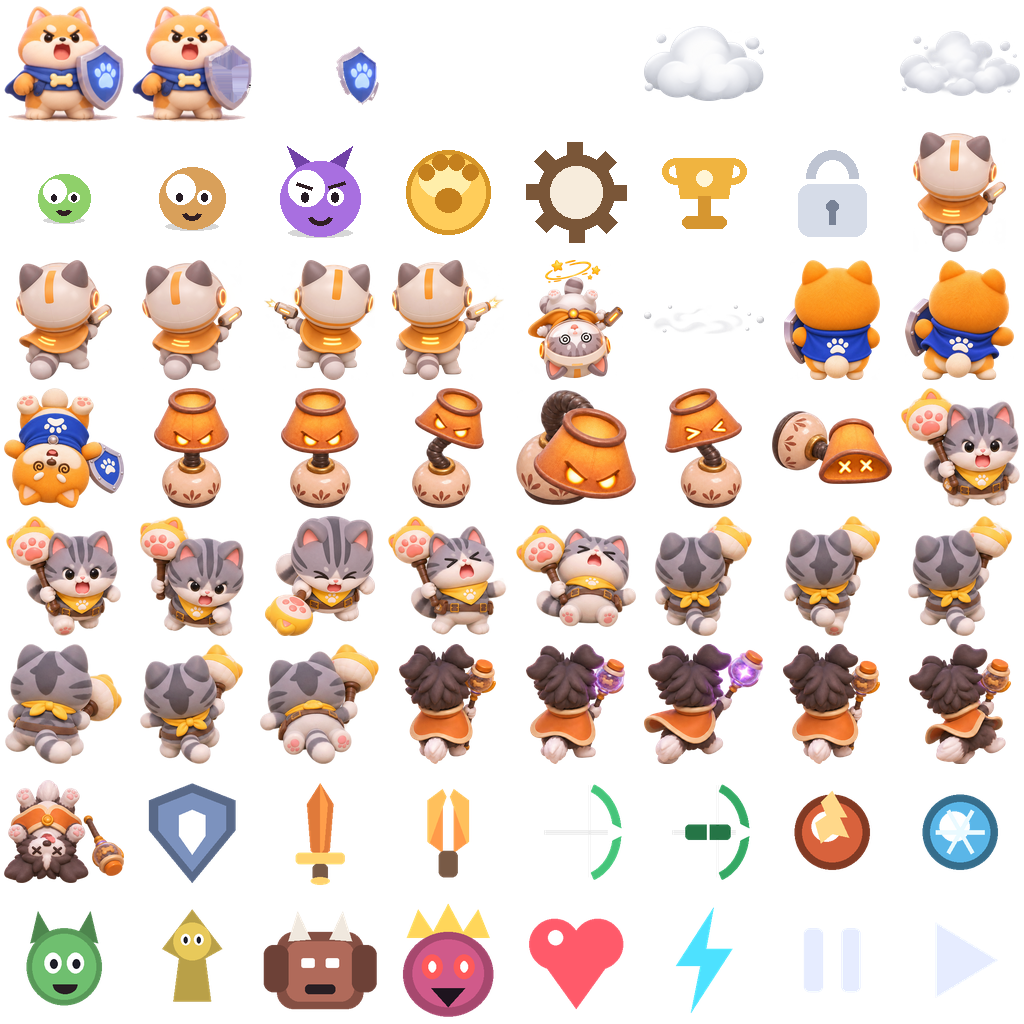
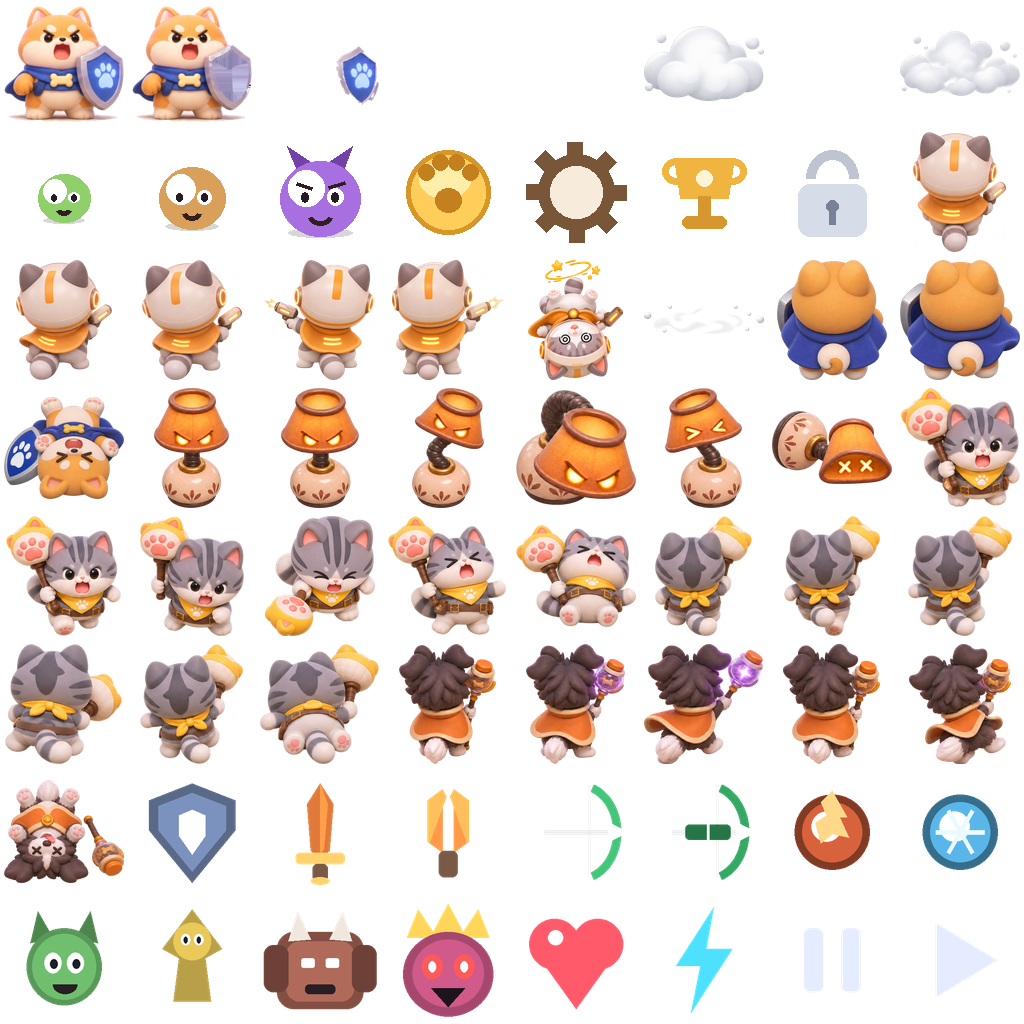
feat: replace chai bupo rear animation set

Changed region(s): [[0.75, 0.25, 1.0, 0.375], [0.0, 0.375, 0.125, 0.5]]

diff --git a/tower-defense/tools/chai-bupo-60-preview.html b/tower-defense/tools/chai-bupo-60-preview.html
@@ -1,0 +1,146 @@
+<!doctype html>
+<html lang="zh-CN">
+<meta charset="utf-8">
+<meta name="viewport" content="width=device-width,initial-scale=1">
+<title>柴不破 · 60° 三视图几何预演</title>
+<style>
+  * { box-sizing: border-box; }
+  body { margin: 0; background: #171824; color: #f7f0e5; font: 14px system-ui, sans-serif; }
+  main { width: min(100vw, 1080px); margin: auto; padding: 18px; }
+  canvas { display: block; width: 100%; aspect-ratio: 1.25; border: 1px solid #4e4165; border-radius: 14px; background: #292735; }
+  p { margin: 12px 0 0; line-height: 1.55; color: #cfc6dd; }
+</style>
+<main>
+  <strong>柴不破 · 固定镜头：正南 → 正北 · 俯角 60°</strong>
+  <canvas id="scene" width="1000" height="800"></canvas>
+  <p>仅使用球体、椭圆与多边形预演脚底、斗篷、盾牌和头身关系。正式三视图将沿用这一相机合同，而非正交正面设定图。</p>
+</main>
+<script>
+(() => {
+  const canvas = document.querySelector('#scene');
+  const ctx = canvas.getContext('2d');
+  const elevation = 60 * Math.PI / 180;
+
+  function norm(v) {
+    const n = Math.hypot(v.x, v.y, v.z) || 1;
+    return { x: v.x / n, y: v.y / n, z: v.z / n };
+  }
+
+  function cross(a, b) {
+    return { x: a.y * b.z - a.z * b.y, y: a.z * b.x - a.x * b.z, z: a.x * b.y - a.y * b.x };
+  }
+
+  function dot(a, b) { return a.x * b.x + a.y * b.y + a.z * b.z; }
+
+  function camera() {
+    const distance = 11;
+    const position = { x: 0, y: -distance * Math.cos(elevation), z: distance * Math.sin(elevation) };
+    const forward = norm({ x: 0, y: -position.y, z: -position.z });
+    const right = norm(cross(forward, { x: 0, y: 0, z: 1 }));
+    return { position, forward, right, up: cross(right, forward), focal: 980 };
+  }
+
+  function project(point, cam) {
+    const rel = { x: point.x - cam.position.x, y: point.y - cam.position.y, z: point.z - cam.position.z };
+    const depth = dot(rel, cam.forward);
+    const scale = cam.focal / Math.max(1, depth);
+    return { x: canvas.width * .5 + dot(rel, cam.right) * scale, y: canvas.height * .55 - dot(rel, cam.up) * scale, scale };
+  }
+
+  function path(points, fill, stroke, width = 1) {
+    ctx.beginPath();
+    points.forEach((p, i) => i ? ctx.lineTo(p.x, p.y) : ctx.moveTo(p.x, p.y));
+    ctx.closePath();
+    if (fill) { ctx.fillStyle = fill; ctx.fill(); }
+    if (stroke) { ctx.strokeStyle = stroke; ctx.lineWidth = width; ctx.stroke(); }
+  }
+
+  function ground(cam) {
+    for (let n = -4; n <= 4; n++) {
+      const a = project({ x: n, y: -4, z: 0 }, cam);
+      const b = project({ x: n, y: 4, z: 0 }, cam);
+      const c = project({ x: -4, y: n, z: 0 }, cam);
+      const d = project({ x: 4, y: n, z: 0 }, cam);
+      ctx.strokeStyle = n === 0 ? '#8e78a8' : '#514b60';
+      ctx.lineWidth = n === 0 ? 1.4 : .8;
+      ctx.beginPath(); ctx.moveTo(a.x, a.y); ctx.lineTo(b.x, b.y); ctx.stroke();
+      ctx.beginPath(); ctx.moveTo(c.x, c.y); ctx.lineTo(d.x, d.y); ctx.stroke();
+    }
+  }
+
+  function oval(x, y, rx, ry, fill, stroke) {
+    ctx.beginPath(); ctx.ellipse(x, y, rx, ry, 0, 0, Math.PI * 2);
+    if (fill) { ctx.fillStyle = fill; ctx.fill(); }
+    if (stroke) { ctx.strokeStyle = stroke; ctx.lineWidth = 1.5; ctx.stroke(); }
+  }
+
+  // ═══════════════════════════════════════════════════════ 柴不破几何块
+  function shield(center, s, pose) {
+    const shift = pose === 'side' ? s * .18 : pose === 'back' ? s * .39 : s * .45;
+    const width = pose === 'side' ? s * .31 : s * .44;
+    const top = center.y - s * .10;
+    const points = [
+      { x: center.x + shift - width, y: top - s * .34 },
+      { x: center.x + shift + width, y: top - s * .20 },
+      { x: center.x + shift + width * .85, y: top + s * .42 },
+      { x: center.x + shift, y: top + s * .68 },
+      { x: center.x + shift - width * .85, y: top + s * .42 },
+    ];
+    path(points, '#285ac0', '#d9d8e8', 6);
+    path(points, null, '#8e90ac', 2);
+  }
+
+  function dog(x, y, pose, label, cam) {
+    const foot = project({ x, y, z: .03 }, cam);
+    const torso = project({ x, y, z: .63 }, cam);
+    const head = project({ x, y, z: 1.34 }, cam);
+    const s = foot.scale * .73;
+    oval(foot.x, foot.y + s * .18, s * .62, s * .22, 'rgba(0,0,0,.26)');
+
+    // 背面时盾在身体前方，必须先画，才能被斗篷和身体自然遮住。
+    if (pose === 'back') shield(torso, s, pose);
+
+    // 斗篷先画，保证身体、头和盾牌的遮挡顺序可见。
+    oval(torso.x, torso.y + s * .12, s * .61, s * .45, '#174ca5', '#0f3478');
+    if (pose === 'back') {
+      oval(torso.x, torso.y + s * .13, s * .22, s * .16, '#fff0de');
+      oval(torso.x, torso.y + s * .13, s * .11, s * .08, '#174ca5');
+    }
+
+    // 圆润柴犬身体：防御位比近战/远程更宽，脚底占地仍收在阴影内。
+    oval(torso.x, torso.y, s * .62, s * .48, '#ee962d', '#c96e20');
+    oval(head.x, head.y, s * .68, s * .56, '#f5a23c', '#ce7620');
+    oval(head.x - s * .39, head.y - s * .42, s * .19, s * .23, '#ed962f', '#c96e20');
+    oval(head.x + s * .39, head.y - s * .42, s * .19, s * .23, '#ed962f', '#c96e20');
+    if (pose === 'front') {
+      oval(head.x, head.y + s * .16, s * .39, s * .25, '#ffe6c8');
+      oval(head.x - s * .22, head.y + s * .03, s * .07, s * .09, '#3d281d');
+      oval(head.x + s * .22, head.y + s * .03, s * .07, s * .09, '#3d281d');
+      oval(head.x, head.y + s * .16, s * .10, s * .07, '#3d281d');
+    } else if (pose === 'side') {
+      oval(head.x - s * .30, head.y + s * .12, s * .20, s * .15, '#ffe6c8');
+      oval(head.x - s * .44, head.y + s * .10, s * .08, s * .08, '#3d281d');
+    } else {
+      oval(head.x, head.y + s * .15, s * .55, s * .28, '#f5a23c');
+    }
+    if (pose !== 'back') shield(torso, s, pose);
+    ctx.fillStyle = '#f6e7d7'; ctx.font = '700 20px system-ui'; ctx.textAlign = 'center';
+    ctx.fillText(label, foot.x, foot.y + s * .86);
+  }
+
+  function draw() {
+    const cam = camera();
+    const bg = ctx.createLinearGradient(0, 0, 0, canvas.height);
+    bg.addColorStop(0, '#302b42'); bg.addColorStop(1, '#171824');
+    ctx.fillStyle = bg; ctx.fillRect(0, 0, canvas.width, canvas.height);
+    ground(cam);
+    dog(-2.25, 1.30, 'front', '正面 · 面向正南', cam);
+    dog(0, .15, 'side', '侧面 · 面向西', cam);
+    dog(2.25, 1.30, 'back', '背面 · 面向正北', cam);
+    ctx.fillStyle = '#f6cb7d'; ctx.font = '700 18px system-ui'; ctx.textAlign = 'left';
+    ctx.fillText('柴不破：防御型宽脚底 + 低重心头身 + 右手盾牌', 28, 38);
+  }
+
+  draw();
+})();
+</script>

diff --git a/tower-defense/package/gameplay/anim/defs.js b/tower-defense/package/gameplay/anim/defs.js
@@ -11,7 +11,7 @@
   var warSpec = A.CharacterAnimations.war;
   var mageSpec = A.CharacterAnimations.mage;
 
-  // 护盾柴犬：战场始终使用背视完整姿势；卡牌仍可复用正面分件图。
+  // 柴不破：战场始终使用背视完整姿势；卡牌仍可复用正面分件图。
   var shiba = {
     parts: [
       { icon: tankSpec.frames.idle, pivot: [0.50, 0.88] },
@@ -26,15 +26,15 @@
           { t: 2.4, mods: [{ icon: tankSpec.frames.idle, dy: 0, sy: 1.00 }] },
         ],
       },
-      // 受击：改用情绪版同风格的完整姿势；第二分件隐藏，避免双盾重影。
+      // 受击：完整背面姿势配合轻微位移；不缩放，避免出现“压扁”观感。
       hurt: {
         dur: tankSpec.states.hurt.duration, ease: 'outQuad',
         keys: [
           { t: 0.00, mods: [{ icon: tankSpec.frames.idle, alpha: 1 }] },
           // 向镜头方向轻退并失衡：保持原体积，不做“受击被压扁”的夸张形变。
-          { t: 0.065, mods: [{ icon: tankSpec.frames.hurt, alpha: 1, dy: 1.8, sx: 1.01, sy: 1.00, rot: -1.5 }] },
-          { t: 0.17, mods: [{ icon: tankSpec.frames.hurt, alpha: 1, dy: 3.6, sx: 1.02, sy: 0.99, rot: -3.0 }] },
-          { t: 0.27, mods: [{ icon: tankSpec.frames.idle, alpha: 1, dy: 1.2, sx: 1.01, sy: 1.00, rot: -1.0 }] },
+          { t: 0.065, mods: [{ icon: tankSpec.frames.hurt, alpha: 1, dy: 1.8, rot: -1.5 }] },
+          { t: 0.17, mods: [{ icon: tankSpec.frames.hurt, alpha: 1, dy: 3.6, rot: -3.0 }] },
+          { t: 0.27, mods: [{ icon: tankSpec.frames.idle, alpha: 1, dy: 1.2, rot: -1.0 }] },
           { t: tankSpec.states.hurt.duration, mods: [{ icon: tankSpec.frames.idle, alpha: 1, dy: 0, sx: 1, sy: 1, rot: 0 }] },
         ],
       },

diff --git a/tower-defense/package/index.html b/tower-defense/package/index.html
@@ -222,8 +222,8 @@ function toggleOrientation() {
 <!-- 在下方按依赖顺序追加游戏 js 文件；kwaiStandard/main.js 保持最后 -->
 <script src="gameplay/data/font-atlas.js?v=3"></script>
 <script src="gameplay/data/sprites.js?v=3"></script>
-<script src="gameplay/data/rigs.js?v=4"></script>
-<script src="gameplay/data/character-animations.js?v=4"></script>
+<script src="gameplay/data/rigs.js?v=5"></script>
+<script src="gameplay/data/character-animations.js?v=5"></script>
 <script src="gameplay/data/avatars.js?v=3"></script>
 <script src="gameplay/config.js?v=4"></script>
 <script src="gameplay/layout.js?v=3"></script>

diff --git a/tower-defense/tools/gen-shiba-atlas.py b/tower-defense/tools/gen-shiba-atlas.py
@@ -248,7 +248,7 @@ def spec_sheet_frame(spec, source_dir, name):
 
 
 def tank_frame(name):
-    """盾狗受击、晕倒与三帧光盾。"""
+    """柴不破的背面待机、受击与仰面倒地帧。"""
     frame = TANK_SPEC["frames"][name]
     if "columns" in frame:
         return spec_sheet_frame(TANK_SPEC, TANK_DOG_DIR, name)
@@ -558,7 +558,7 @@ def build():
     cell(ARCHER_SPEC["frames"]["defeat"]["icon"], archer_back_defeat())
     cell("fx-smoke-3", defeat_smoke(2))
 
-    # 盾狗：背面待机、受击与晕倒均为完整姿势帧。
+    # 柴不破：背面待机、受击与晕倒均为完整姿势帧。
     cell(TANK_SPEC["frames"]["idle"]["icon"], tank_frame("idle"))
     cell(TANK_SPEC["frames"]["hurt"]["icon"], tank_frame("hurt"))
     cell(TANK_SPEC["frames"]["defeat"]["icon"], tank_frame("defeat"))

diff --git a/tower-defense/PROJECT.md b/tower-defense/PROJECT.md
@@ -61,14 +61,15 @@ python3 tools/gen-profile-art.py   # 9 只猫狗头像图集
 - 字形图集从 `gameplay/**.js` 的字符串字面量自动收集用字：**新增中文文案后必须重新执行 `gen-assets.py`**，否则会缺字
 - 图集按注册顺序自动排格，并对重复帧名和容量耗尽直接报错；图集尺寸自动选宽，保证高度 ≤ 2048（低端机纹理上限）
 
-**战斗图集（`res/Image/game.png`，1024×1152，当前 66 格）**
+**战斗图集（`res/Image/game.png`，1024×1024，当前 64 格）**
 - 单元格 128px，含 4px padding（旋转 + 线性过滤时防渗色），有效区 120px
 - 帧按生成器注册顺序自动排格；运行时代码只通过帧名查询，禁止依赖图集行列位置
-- 当前包含卡牌用柴犬分件、通用特效、战场敌人与 UI 图标、射手猫背面待机 / 瞄准 / 左右开火 / 后坐 / 仰面晕倒帧、盾狗背面待机 / 受击 / 仰面晕倒帧、近战猫正背两套待机 / 走步 / 挥锤 / 受击 / 倒地帧、哈利边牧背面待机 / 蓄能 / 释放 / 收势 / 受击 / 仰面晕倒帧，以及台灯小怪的待机 / 跳步 / 灯罩蓄力与撞击 / 受击 / 侧翻倒地帧；飞行光弹与范围光圈由运行时绘制，不能烘焙进角色帧
+- 当前包含卡牌用柴犬分件、通用特效、战场敌人与 UI 图标、射手猫背面待机 / 瞄准 / 左右开火 / 后坐 / 仰面晕倒帧、柴不破背面待机 / 受击 / 仰面晕倒帧、近战猫正背两套待机 / 走步 / 挥锤 / 受击 / 倒地帧、哈利边牧背面待机 / 蓄能 / 释放 / 收势 / 受击 / 仰面晕倒帧，以及台灯小怪的待机 / 跳步 / 灯罩蓄力与撞击 / 受击 / 侧翻倒地帧；飞行光弹与范围光圈由运行时绘制，不能烘焙进角色帧
 - 分件以**整张正视图为共同参照**落格，不能各自居中，否则拼合错位
-- 柴犬旧正视源图仅供卡牌分件，放 `tools/src/shiba-front.png`；角色参考按角色目录收纳在 `tools/src/characters/角色/<角色名>/`，跨角色风格参考放在 `tools/src/characters/情绪版/`。射手猫动作源位于 `角色/射手猫/`；盾狗战场源位于 `角色/盾狗/`，包含背面待机、背面受击 / 晕倒帧。所有角色共用的死亡烟雾位于 `tools/src/effects/defeat-smoke/vanish-smoke-0*.png`；旧图标源放 `tools/src/sprites-legacy.png`
+- 柴犬旧正视源图仅供卡牌分件，放 `tools/src/shiba-front.png`；角色参考按角色目录收纳在 `tools/src/characters/角色/<角色名>/`，跨角色风格参考放在 `tools/src/characters/情绪版/`。柴不破的确认三视图为 `角色/柴不破/柴不破三视图-60度-已确认-v1.png`，战场动作源为同目录 `柴不破背面动作-v1.png`（3×1）；射手猫动作源位于 `角色/射手猫/`。所有角色共用的死亡烟雾位于 `tools/src/effects/defeat-smoke/vanish-smoke-0*.png`；旧图标源放 `tools/src/sprites-legacy.png`
 - 角色 / 怪物 AI 生图的强制参考链：每次都输入 `tools/src/characters/情绪版/` 的风格图；三视图任务额外输入角色目录的 `*三视图参考*.png`，动作任务同时输入两者。缺任一必要参考时暂停正式生成，不得仅靠文字或旧动作表补图。
 - 角色 / 怪物 / 特效的新制或重制统一使用“相机位于战场正南、朝正北、俯角 70°”的固定镜头。正式生图和接入前，必须在 `tools/camera-perspective.html` 的 70° 场域预演高度、遮挡、轨迹和贴地透视；已验收素材不自动返工。
+- 例外：柴不破以用户确认的 60°正南→正北三视图为结构母版；其背面动作必须沿用该镜头、比例和底部锚点，不得与通用 70°镜头混用。
 - **改分件/特效后必须重新执行 `gen-shiba-atlas.py`**，并检查 `sprites.js` 里旧图标仍完整
 - 界面图标（关闭、返回、箭头、勾选、音乐、音效、分享、链接）只在 `sprites.png`；`Assets.sprite()` 先查战斗图集，未命中再回退界面图集
 - 字形图集只有 18 / 28 / 48 三档，界面文字不要写 20 / 24 / 26 等其他字号，否则该行会整段不绘制
@@ -96,7 +97,7 @@ node ../ks-yoola-devkit/scripts/validate-package.mjs --dir .
 - 攻击伤害**不在起手结算**：`updateUnits` 只切 `anim='atk'` + `pendingHit`，到达 Rig 的 `states.atk.hit` 才 `resolveAttack`；不得再为单位硬编码第二套出手时间
 - 射手猫背面动作固定为蓄力 0.10 秒、独立开火帧 0.12–0.18 秒、后坐并在 0.46 秒回到待机；目标左右两侧各用一帧，始终由角色右手持枪；光弹从相应 Rig 的 `muzzle` 锚点生成，命中时才造成伤害
 - 射手猫被击败时先向后仰 0.12 秒，切换到用户确认的仰面晕倒帧；姿势保持不透明，在 0.46 秒时生成三帧纯白烟雾并直接移出单位列表。烟雾的扩散由三张素材帧表达，不可再以运行时缩放伪造。死亡持续时间读取 Rig 数据，不能为此单位另写硬编码
-- 盾狗不进入攻击流程；嘲讽仍由战斗逻辑处理，但不播放光盾特效。战场待机与受击均为背视；受击在 0.34 秒内轻微后移、失衡后回正，保持角色体积而不压扁；死亡切换为仰面晕倒（头朝战场南侧），姿势不渐隐，随后复用通用白烟雾退场。
+- 柴不破不进入攻击流程；嘲讽仍由战斗逻辑处理，但不播放光盾特效。战场固定使用 60°背面完整姿势；待机时大盾从观察者左侧露出，受击在 0.34 秒内轻微后移、失衡后回正，保持角色体积而不压扁；死亡切换为仰面晕倒（头朝战场南侧），姿势不渐隐，随后复用通用白烟雾退场。
 - 台灯小怪使用 `small` 敌人档（逻辑直径 22）：移动循环为起跳 / 落地，近战攻击在 0.22 秒由灯罩前撞命中；命中使用暖色冲击而非刀光。动作源为 `tools/src/characters/角色/台灯小怪/lamp-minion-actions-v2.png`，3×2 表统一取帧；正 / 侧 / 后三视图参考为同目录 `台灯小怪三视图参考-v2.png`；两者均以情绪版风格图与该三视图为输入。死亡侧翻姿势保持不透明，随后复用通用白烟雾。
 - 近战猫复用移动近战位的内部 id `war` 与既有数值（逻辑直径 30）：正面 / 背面均有待机、走步、蓄力、挥锤、受击与倒地帧。移动和目标在角色上方时使用背面 Rig，目标在角色下方时使用正面 Rig；任一瞬态动作结束后固定回背面待机。动作源为 `tools/src/characters/角色/近战猫/近战猫动作-v2.png`，4×3 表统一取帧，三视图为 `近战猫三视图参考-v1.png`；正面命中帧使用闭眼表情。攻击命中维持 0.20 秒，挥锤刀光仍由运行时绘制，死亡后复用通用白烟雾。
 - 哈利边牧复用法师位内部 id `mage` 与既有数值（逻辑直径 28）：战场固定背面，动作源为 `tools/src/characters/角色/法师狗/mage-dog-back-actions-v1.png`（3×2），包含待机、蓄能、释放、收势、受击与仰面晕倒。攻击在 0.28 秒的释放帧命中；紫金狗饼干飞弹与贴地扩散源为 `tools/src/effects/mage-biscuit/mage-biscuit-vfx-v5.png`，生成阶段输出独立的 `res/Image/mage-biscuit-vfx.png`（512×256，双 256 格）。落地格为重新生成的透明砸地饼干与碎屑，缩小至光效的辅助尺寸；主体为 70° 正北透视下快速扩散的高亮紫色椭圆光核与 18 枚加法光粒子。落地饼干不渐隐，完整显示 0.5 秒后与命中特效一起直接移除。命中不叠加通用范围圆环，死亡仍接通用白烟雾。

diff --git a/STATUS.md b/STATUS.md
@@ -1,6 +1,6 @@
 # 当前状态
 
-更新：2026-11-06 19:49（Asia/Shanghai） · 哈利边牧背面行动动画、70° 正北美术镜头与狗饼干命中特效已合入 `main`（`b87c4d9`）；角色体型阶梯待独立数值回归后落地。
+更新：2026-11-06 20:45（Asia/Shanghai） · 哈利边牧背面行动动画、70° 正北美术镜头与狗饼干命中特效及柴不破确认 60°三视图与全套背面动作均已合入 `main`；角色体型阶梯待独立数值回归后落地。
 
 ## 现有工程
 
@@ -11,13 +11,14 @@
 - 合并前验证（2026-11-03，H5 预览，414×896，DPR 2）：`node tools/layout-check.mjs`、`node tools/assets-check.mjs`、`node tools/sim.mjs --seconds 400`、`node tools/shot.mjs --port 8102 --dpr 2`（12/12）、`validate-package.mjs --dir .` 均通过。预检保留 6 条已知警告（模板修改 2、上传占位 2、首页图目录 2）；浏览器自动播放音频警告及 favicon 404 未阻断交互。
 - 预览服务必须指向本仓库 `tower-defense/package/`；资源404会被门禁阻断，可用 `node tools/assets-check.mjs` 回归。
 - 本次合并检查：`node tower-defense/tools/sim.mjs --seconds 400`、`assets-check.mjs`、`layout-check.mjs`、`menu-interaction-check.mjs`、浏览器个人中心/暂停面板回归和盾狗受击定格帧均通过；包体静态预检无错误、14 条警告（模板文件 4、配置/广告占位 2、资源目录 8）。本次未进行快手真机验证。
-- 当前角色动画：镭射喵（射手猫）背面待机 / 瞄准 / 左右开火 / 后坐 / 仰面晕倒、柴不破（盾狗）背面待机 / 受击 / 仰面晕倒、锤锤喵（近战猫）正背走步 / 挥锤 / 受击 / 倒地、哈利边牧背面待机 / 蓄能 / 释放 / 收势 / 受击 / 仰面晕倒，以及台灯小怪的跳步、灯罩撞击、受击与侧翻倒地均已接入；锤锤喵正面命中帧闭眼，停止移动或动作结束后固定背面待机。角色源素材按 `tools/src/characters/角色/<角色名>/` 收纳，跨角色风格参考放在 `tools/src/characters/情绪版/`，通用特效放在 `tools/src/effects/`。哈利边牧固定背面，攻击在 0.28 秒释放帧结算；命中时生成缩小的砸地狗饼干与碎屑，主体为 70° 正北透视下的高亮紫色光核与粒子，饼干保持不透明 0.5 秒后直接移除；命中不叠通用圆环，死亡后接通用白烟雾。快手真机仍未验证。原始角色与情绪参考图已迁出 `package/res/`，当前主包目录约 4.7 MiB。
+- 当前角色动画：镭射喵（射手猫）背面待机 / 瞄准 / 左右开火 / 后坐 / 仰面晕倒、柴不破 60°背面待机 / 受击 / 仰面晕倒、锤锤喵（近战猫）正背走步 / 挥锤 / 受击 / 倒地、哈利边牧背面待机 / 蓄能 / 释放 / 收势 / 受击 / 仰面晕倒，以及台灯小怪的跳步、灯罩撞击、受击与侧翻倒地均已接入；锤锤喵正面命中帧闭眼，停止移动或动作结束后固定背面待机。角色源素材按 `tools/src/characters/角色/<角色名>/` 收纳，跨角色风格参考放在 `tools/src/characters/情绪版/`，通用特效放在 `tools/src/effects/`。哈利边牧固定背面，攻击在 0.28 秒释放帧结算；命中时生成缩小的砸地狗饼干与碎屑，主体为 70° 正北透视下的高亮紫色光核与粒子，饼干保持不透明 0.5 秒后直接移除；命中不叠通用圆环，死亡后接通用白烟雾。快手真机仍未验证。原始角色与情绪参考图已迁出 `package/res/`，当前主包目录约 4.7 MiB。
 - 已确认后续制作规范：用户提供角色图与特点后，按 `docs/角色行动动画制作规范.md` 自动决定动作样式、图集帧、Rig、命中时刻与验收流程。
 - 已确认 AI 生图参考链：情绪版是所有角色 / 怪物生成的必带风格输入；三视图生成必须额外使用对应角色的三视图参考图，动作图必须同时使用两者。参考不全时暂停正式生成。
 - 已确认镜头规则：后续新制或重制的角色、怪物、飞弹与特效固定采用相机在战场正南、朝正北、俯角 70° 的视角；正式生图 / 接入前先在 `tower-defense/tools/camera-perspective.html` 中预演透视关系。
+- 柴不破是用户确认的镜头例外：三视图和背面动作固定为 60°正南→正北；确认母版与动作表均位于 `tower-defense/tools/src/characters/角色/柴不破/`，战场盾牌在背面从观察者左侧露出。
 - 已确认角色尺寸规则：英雄按防御、近战、远程递减阶梯设计；怪物按小怪、普通、精英、首领 / 巨型家具怪分档，可比英雄更小或更大。当前 `radius` 仍复用多种职责，尺寸字段拆分与既有角色重标定尚未实施。
 - 已修复规范落地缺口：英雄与敌人共用移动/攻击/死亡状态生命周期和死亡烟雾；动作规格 JSON 驱动图集与 Rig 数据，图集格位自动分配并校验重复与容量。
-- 盾狗已接入背面待机、背面受击与仰面晕倒。盾狗不攻击；嘲讽仍由战斗逻辑处理，但不播放光盾。受击在 0.34 秒内轻微后移、失衡后回正，不压扁角色；晕倒姿势保持不透明，头朝战场南侧，随后播放通用白烟雾直接退场。H5 定格帧、资源门禁、400 秒仿真、布局检查和包体预检通过；未做快手真机验证。
+- 柴不破已接入 60°背面待机、背面受击与仰面晕倒。柴不破不攻击；嘲讽仍由战斗逻辑处理，但不播放光盾。待机与受击均保留大盾的左侧露出；受击在 0.34 秒内轻微后移、失衡后回正，不压扁角色；晕倒姿势保持不透明，头朝战场南侧，随后播放通用白烟雾直接退场。H5 定格帧、资源门禁、400 秒仿真、布局检查、菜单交互、浏览器回归和包体预检通过；未做快手真机验证。
 - 局内设置合入时遗留的 4 项包体预检错误已修复：业务层不再含绝对邀请 URL、DOM 调用或裸 `ks.*`；快手端系统键盘 / 剪贴板与 H5 静默降级均收敛至 `kwaiOpenApi`。快手真机仍未验证。
 
 ## 策划衔接

diff --git a/CHANGELOG.md b/CHANGELOG.md
@@ -1,5 +1,13 @@
 # 版本更新记录
 
+## 柴不破 60°三视图与背面动作（2026-11-06，`main`）
+
+- 替换：以用户确认的 `柴不破三视图-60度-已确认-v1.png` 作为角色唯一结构母版，不改内部 id `tank`、嘲讽、零攻击或数值。
+- 新增：`柴不破背面动作-v1.png`（透明 PNG，2172×724，3×1），依次为背面待机、轻微受击踉跄与仰面倒地。背面待机和受击中，盾牌从观察者左侧露出；倒地时头朝战场南侧。
+- 运行时：`tank.json` 改为统一读取这张三格动作表；受击 Rig 删除缩放参数，保留轻微位移和旋转，避免压扁角色。死亡姿势保持不透明，随后沿用通用白烟雾。
+- 镜头：该角色按用户确认的 60°正南→正北母版制作，是通用 70°美术镜头的明确例外。
+- 验证：图集生成（64 格，1024×1024）、H5 三态定格、资源门禁、400 秒仿真、布局合同、菜单交互、浏览器回归 12/12 与包体静态预检通过；快手 iOS / Android 真机未验证。
+
 ## 哈利边牧 70° 狗饼干特效（2026-11-06，`main`）
 
 - 重制：飞弹与命中扩散改按正南→正北、70°俯视关系绘制；落点是近圆的贴地魔法纹样，不含通用外圈光环。

diff --git a/DEVLOG.md b/DEVLOG.md
@@ -9,6 +9,18 @@
 
 ---
 
+## v0.6.13 · 2026-11-06 20:45 · `main`
+
+**提交**：柴不破确认三视图与背面动作重制 · **作者**：Codex
+
+- 将用户确认的 60°正南→正北三视图归档为 `角色/柴不破/柴不破三视图-60度-已确认-v1.png`，作为柴不破的唯一结构母版。
+- 新增同目录三格透明动作表 `柴不破背面动作-v1.png`：背面待机、大盾从观察者左侧露出的小幅受击踉跄、以及头朝战场南侧的仰面倒地。
+- `tank.json` 统一引用新角色目录和三格动作表；保持内部 id、嘲讽规则、零攻击与数值不变。Rig 受击删除缩放变换，只保留位移与旋转，消除压扁观感。
+- 柴不破按用户确认的 60°镜头制作，记录为通用 70°美术镜头的显式角色例外。
+- 验证：图集 64 格（1024×1024）、H5 待机 / 受击 / 倒地与死亡烟雾定格、资源门禁、400 秒仿真、布局合同、菜单交互、浏览器回归 12/12 与包体静态预检通过；真机未验证。
+
+---
+
 ## v0.6.12 · 2026-11-06 19:49 · `main`
 
 **提交**：哈利边牧 70° 狗饼干飞弹与贴地扩散 · **作者**：bin
